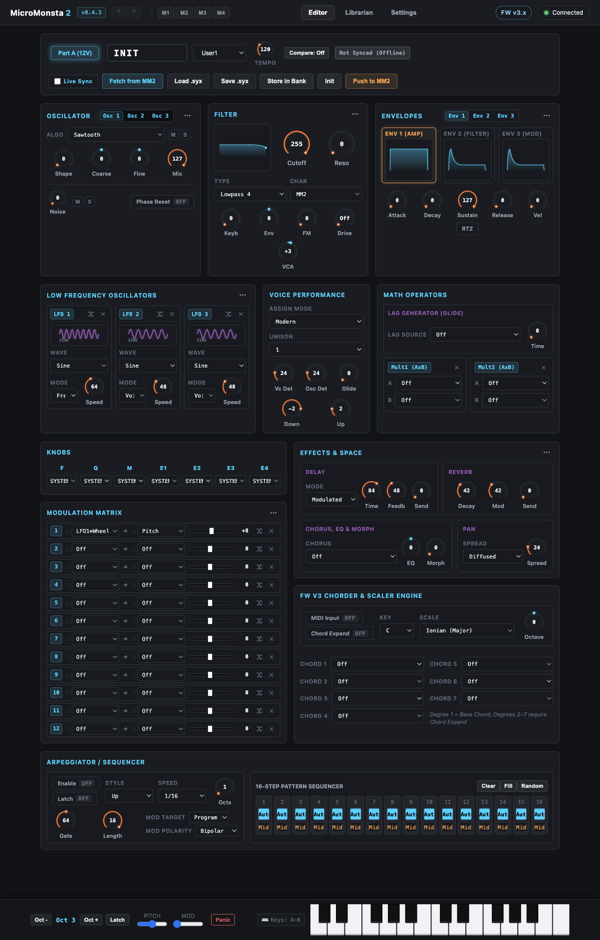
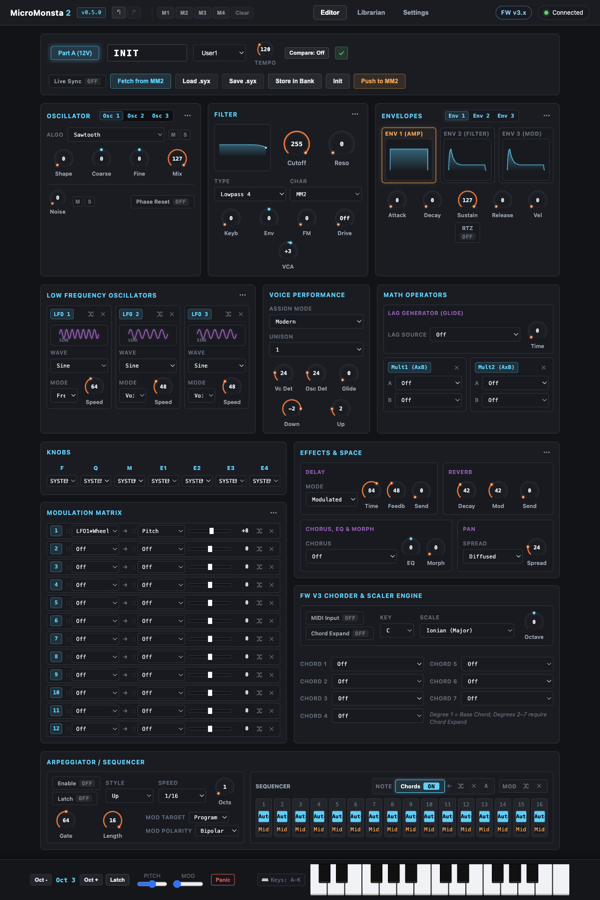
chore(release): bump version to 0.5.0

diff --git a/js/version.js b/js/version.js
@@ -6,7 +6,7 @@
 // The pre-commit hook automatically keeps package.json in sync with this value.
 // ============================================================================
 
-const APP_VERSION = '0.4.4';
+const APP_VERSION = '0.5.0';
 
 if (typeof module !== 'undefined' && module.exports) {
     module.exports = { APP_VERSION };

diff --git a/CHANGELOG.md b/CHANGELOG.md
@@ -7,23 +7,44 @@ and this project adheres to [Semantic Versioning](https://semver.org/spec/v2.0.0
 
 ## [Unreleased]
 
-- **UI:** Reset global latch and held audition notes on Fetch, Arp enable, or MIDI connection drop/restore.
+---
+
+## [0.5.0] - 2026-11-15
+
+### Added
 - **UI:** Bind `!` key to trigger MIDI Panic mode.
-- **CI:** Add release workflow to publish a minimal runtime `.zip` (`index.html`, `css/`, `js/`, `LICENSE`) on `v*` tags.
-- **UI:** Replace all remaining browser `confirm()` and `alert()` calls with app-styled `<dialog>` modals (`#app-confirm-dialog` and `#app-alert-dialog`).
-- **UI:** Dragging a Part in Init state onto a memory slot (`M1`–`M4`) clears that memory slot.
 - **UI:** Add a `Clear` button to the right of patch memories `M1`–`M4` to clear all stored memory slots.
+- **UI:** Dragging a Part in Init state onto a memory slot (`M1`–`M4`) clears that memory slot.
+
+### Changed
+- **UI:** Replace all remaining browser `confirm()` and `alert()` calls with app-styled `<dialog>` modals (`#app-confirm-dialog` and `#app-alert-dialog`).
 - **UI:** Give all toggle buttons in interface consistent style.
 - **UI:** Replace the editor sync status badge text with single-color outline SVG icons using existing theme colors.
-- **Sync:** Preserve `Synced with MM2` status when disabling Live Sync instead of immediately marking the patch as `Modified`.
-- **Tests:** Split monolithic `tests/test-suite.js` into domain-focused files under `tests/domains/` with shared harness in `tests/test-helpers.js`.
-- **UI:** Remove focus from buttons, knobs, and selectors after interaction so QWERTY keyboard piano notes do not highlight or re-trigger previous controls.
 - **UI:** Reorganize `SEQUENCER` toolbar into `Note` and `Mod` sections, and replace `Copy to all` with drag-only `Copy` (`All`, `Note`, `Mod`) drop targets.
-- **Sync:** Skip Fetch/Push/Ignore dialog on Live Sync activation or verified reconnect when hardware and editor patches already match.
 - **UI:** Create Bank now creates a bank tab button immediately and enters inline rename mode without a browser `prompt()` dialog.
 - **UI:** Removed redundant Rename Bank and Delete Bank toolbar buttons (bank tabs provide inline rename and `✕` delete).
 
 - **UI:** Make librarian bank tab titles directly editable on single-click with Enter/Escape handling.
+- **Sync:** Skip Fetch/Push/Ignore dialog on Live Sync activation or verified reconnect when hardware and editor patches already match.
+
+### Fixed
+- **UI:** Remove wasted space in the audition keyboard footer.
+- **UI:** Reset global latch and held audition notes on Fetch, Arp enable, or MIDI connection drop/restore.
+- **Sync:** Preserve `Synced with MM2` status when disabling Live Sync instead of immediately marking the patch as `Modified`.
+- **UI:** Remove focus from buttons, knobs, and selectors after interaction so QWERTY keyboard piano notes do not highlight or re-trigger previous controls.
+
+### CI & Maintenance
+- **CI:** Add release workflow to publish a minimal runtime `.zip` (`index.html`, `css/`, `js/`, `LICENSE`) on `v*` tags.
+- **Tests:** Split monolithic `tests/test-suite.js` into domain-focused files under `tests/domains/` with shared harness in `tests/test-helpers.js`.
+
+---
+
+## [0.4.4] - 2026-11-14
+
+### Changed
+- **UI:** Link header and settings app version badges to the GitHub repository.
+
+### CI & Maintenance
 - **CI:** Instruct `gemini-triage` and `gemini-review` workflows to fetch full issue/PR details and post comments/reviews via `gh` CLI.
 - **CI:** Add `workflow_dispatch` handoff from `gemini-triage` to `gemini-assist` for actionable issues.
 - **CI:** Authenticate `gh` CLI via `gh auth login --with-token` before running Gemini CLI so `gh` remains authenticated despite shell env var redaction.
